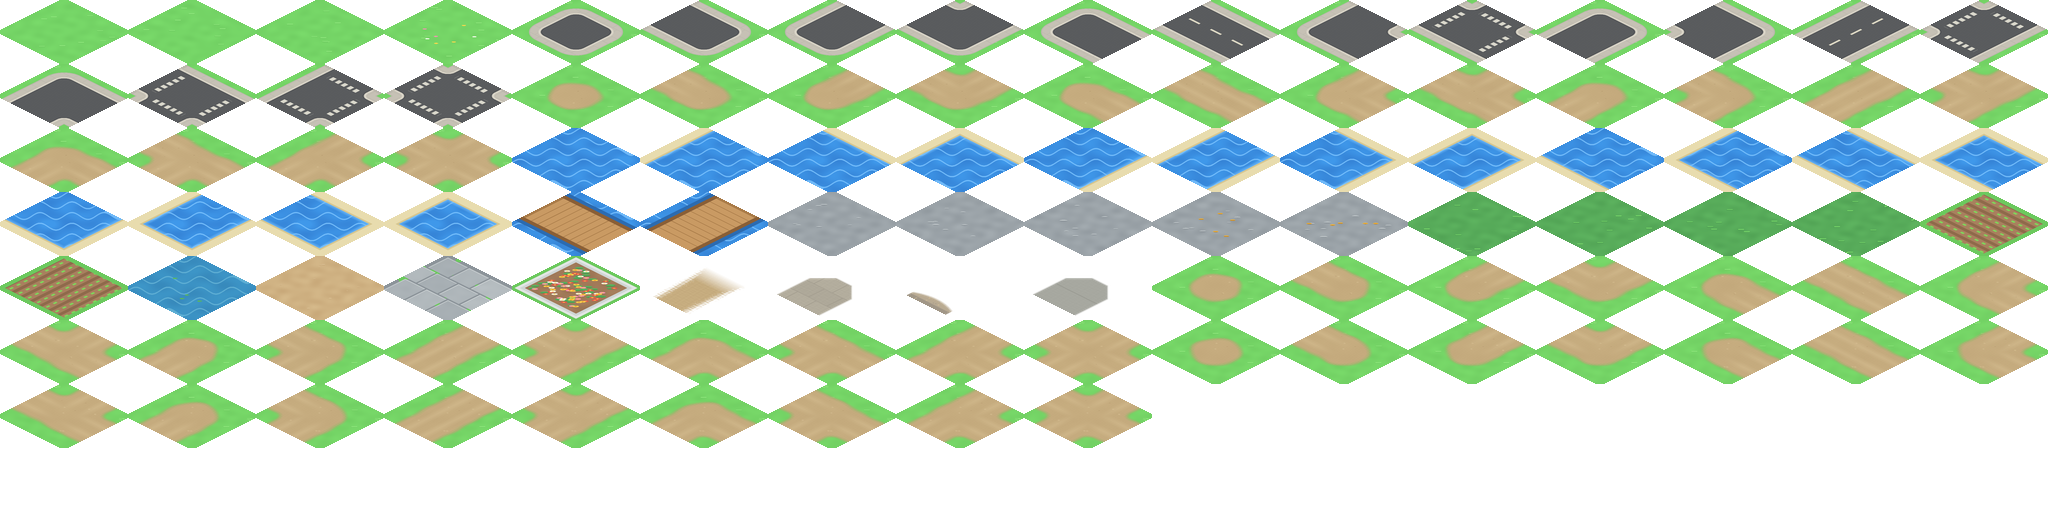
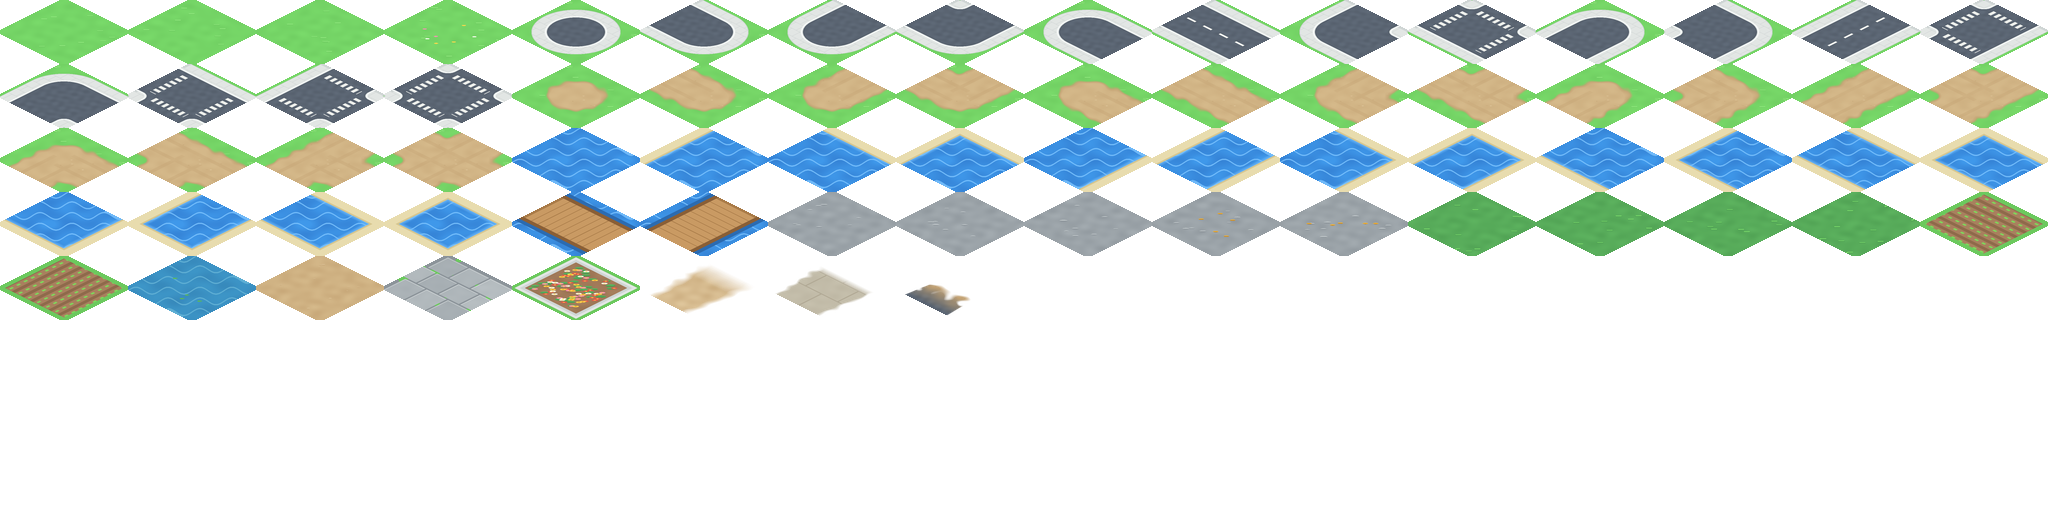
恢复初版道路与门前铺面外观

diff --git a/county-tycoon/assets/scripts/world/GridMap.ts b/county-tycoon/assets/scripts/world/GridMap.ts
@@ -1,6 +1,6 @@
 import { _decorator, Component, Layers, Node, UITransform, SpriteFrame } from 'cc';
 import { ArtLibrary, GROUND_GRASS_FRAMES, GROUND_ROAD_BASE } from '../core/ArtLibrary';
-import { bridgeName, grassName, neighborMask, RoadKind, roadName, terrainName, variantOf } from '../core/GroundFrames';
+import { bridgeName, grassName, neighborMask, RoadKind, roadName, terrainName } from '../core/GroundFrames';
 import { Facing, PlacedBuilding, TownModel } from '../core/TownModel';
 
 const { ccclass } = _decorator;
@@ -62,10 +62,9 @@ export class GridMap extends Component {
         const model = this._model;
         const art = this._art;
         if (!model || !art) return;
-        const apron = art.groundByName('gravel-apron');
+        const apron = art.groundByName('asphalt-apron');
         const earth = art.groundByName('entrance-earth');
         const paving = art.groundByName('entrance-paving');
-        const concrete = art.groundByName('entrance-concrete') ?? paving;
         for (const b of model.allBuildings()) {
             if (b.def.road === 'dirt' && apron) {
                 for (const { dc, dr, turn } of ROAD_EDGES) {
@@ -75,7 +74,7 @@ export class GridMap extends Component {
                 }
             }
             if (b.def.flat || b.def.id === 'tree' || b.def.id === 'farm' || b.def.terrain || !b.facing) continue;
-            const frame = b.def.id === 'hut' ? earth : b.def.category === '工业' ? concrete : paving;
+            const frame = b.def.id === 'hut' ? earth : paving;
             const entrance = frame && this.entranceOverlay(b, b.facing, frame);
             if (entrance) yield entrance;
         }
@@ -92,7 +91,7 @@ export class GridMap extends Component {
         const street = boundary - (dc + dr < 0 ? 1 : 0);
         const isDirt = (along: number) => (dc ? this.roadKind(street, along) : this.roadKind(along, street)) === 'dirt';
         const door = start + span / 2 + (DOOR_OFFSET[b.def.id] ?? 0) * (dr || -dc);
-        const width = span === 1 ? 0.40 : 0.66;
+        const width = span === 1 ? 0.43 : 0.72;
         let along = Infinity;
         for (let i = start; i < start + span; i++) {
             if (!isDirt(i)) continue;
@@ -119,10 +118,7 @@ export class GridMap extends Component {
         const kind = this.roadKind(col, row);
         if (kind) {
             const mask = neighborMask((c, r) => this.roadKind(c, r) !== null, col, row);
-            const name = roadName(kind, mask);
-            const variant = kind === 'dirt' ? variantOf(col, row, 3) : 0;
-            return (variant ? art.groundByName(`${name}-${variant}`) : null)
-                ?? art.groundByName(name) ?? art.ground(GROUND_ROAD_BASE[kind] + mask);
+            return art.groundByName(roadName(kind, mask)) ?? art.ground(GROUND_ROAD_BASE[kind] + mask);
         }
 
         // 装饰地块：flat 且有 decoFrame 名字（T218）

diff --git a/docs/art/3d/ground.py b/docs/art/3d/ground.py
@@ -7,8 +7,7 @@
   36~51  水 36+mask（mask = 四邻是陆地的位，有岸）              52 bridge-gx  53 bridge-gy
   54~56  mountain-0..2 石地   57~58 ore-0..1 矿点   59~62 forest-0..3 林地   63~64 farm-0..1   65 pond
   66 dirt-tile 泥土地   67 flagstone 石板路   68 flower-bed 花坛（T218，玩家可铺的装饰地块）
-  69 entrance-earth  70 entrance-paving  71 gravel-apron  72 entrance-concrete
-  73~104 土路的两套纹理变体，各 16 种接法
+  69 entrance-earth  70 entrance-paving  71 asphalt-apron（半透明贴地叠层，沿 +v 朝门面或柏油路）
 道路 mask 位：1 左上邻(col-1)  2 右上邻(row-1)  4 右下邻(col+1)  8 左下邻(row+1)
 
 画法：每个像素反算格内坐标 (u, v)（u 沿 gx 往右下、v 沿 gy 往左下，0..1），按 (u, v) 取色。
@@ -30,12 +29,9 @@ def hx(s):
 C = {k: hx(v) for k, v in {
     'grass': '#79da6a', 'grass_d': '#6cc95e', 'grass_l': '#8ee67c', 'flower_w': '#fdfdf2', 'flower_y': '#ffd84a',
     'flower_p': '#ff8fb8',
-    'pave': '#e2e6e4', 'pave_d': '#cfd5d4', 'curb': '#f4f7f6',
-    'walk': '#c9c4b7', 'walk_d': '#aba89e', 'road_curb': '#dfdacd', 'asphalt': '#5c5e60', 'asphalt_d': '#515356',
-    'line': '#ddd8c4', 'zebra': '#d9d7cb',
+    'pave': '#e2e6e4', 'pave_d': '#cfd5d4', 'curb': '#f4f7f6', 'asphalt': '#5f6a78', 'asphalt_d': '#56606d',
+    'line': '#fbfbf3', 'zebra': '#eef0ec',
     'dirt': '#d5b98a', 'dirt_d': '#c3a273', 'dirt_l': '#e2caa0',
-    'road_dirt': '#cbb284', 'road_dirt_d': '#b79b70', 'road_dirt_l': '#dac397',
-    'road_grass': '#82c663', 'gravel': '#b0a79a', 'gravel_d': '#8c8479',
     'water': '#3f98ea', 'water_d': '#3583d6', 'water_l': '#7cc4ff', 'sand': '#e8dcae', 'sand_d': '#d6c690',
     'deck': '#c99a63', 'deck_d': '#a97b48', 'rail': '#8a5f36', 'stone': '#a3abb0', 'stone_d': '#8c949a',
     'stone_l': '#bcc3c6', 'ore': '#f0b43a', 'ore_d': '#b77a22', 'forest': '#5db35f', 'forest_d': '#4c9c50',
@@ -118,11 +114,10 @@ def arms(mask):
     """mask → 四个方向是否连通：(-u, -v, +u, +v)"""
     return bool(mask & 1), bool(mask & 2), bool(mask & 4), bool(mask & 8)
 
-DIRT_HALF = 0.30
-CITY_HALF = 0.31
+ROAD_HALF = 0.32
 
-def road_depth(du, dv, exits, half, rounding, cap_corner=None):
-    """距车道边缘的有符号距离，路内为正；开放端延伸到格边。"""
+def road_depth(du, dv, exits, half, rounding):
+    """距车道边缘的有符号距离，路内为正。开放端延伸到格边，封闭端自然收圆。"""
     nu, nv, pu, pv = exits
     u, v = abs(du), abs(dv)
     along_u = pu if du > 0 else nu
@@ -133,134 +128,103 @@ def road_depth(du, dv, exits, half, rounding, cap_corner=None):
         return min(max(a, b), -rounding) + math.hypot(max(rounding + a, 0), max(rounding + b, 0))
     if along_u: return half - v
     if along_v: return half - u
-    if cap_corner is None:
-        return half - math.hypot(u, v)
-    # 城市端头保留笔直的一截路缘，两边接圆角。
-    a, b = u - half + cap_corner, v - half + cap_corner
-    return cap_corner - min(0.0, max(a, b)) - math.hypot(max(a, 0), max(b, 0))
+    return half - math.hypot(u, v)
 
 def asphalt(u, v):
-    grain = per_noise(u, v, 7, ((13, 19), (17, 11), (23, 13)))
-    return mix(C['asphalt_d'], C['asphalt'], 0.76 + 0.09 * grain)
+    t = per_noise(u, v, 7, ((5, 3), (3, 5), (7, 2))) * 0.5 + 0.5
+    return mix(C['asphalt_d'], C['asphalt'], t)
 
 def city_fn(mask):
     exits = arms(mask)
     nu, nv, pu, pv = exits
+    straight_u = mask == 5
+    straight_v = mask == 10
     junction = sum(exits) >= 3
     grass = grass_fn(31)
-    approaches = [(du, dv) for open_, du, dv in ((nu,-1,0), (nv,0,-1), (pu,1,0), (pv,0,1)) if open_]
     def f(u, v):
         du, dv = u - 0.5, v - 0.5
-        d = road_depth(du, dv, exits, CITY_HALF, 0.11, cap_corner=0.12)
-        if d < -0.131:
+        d = road_depth(du, dv, exits, ROAD_HALF, 0.115)
+        if d < -0.173:
             return grass(u, v)
         if d < -0.026:
-            # 暖灰砖铺面和一线贴地阴影。
-            row = int(v * 7)
-            seam = (u * 7 + 0.5 * (row % 2)) % 1 < 0.039 or (v * 7) % 1 < 0.042
-            return mix(C['walk'], C['walk_d'], 0.46 if seam or d < -0.119 else 0.09)
+            # 错缝方砖，靠草地留一线阴影。
+            row = int(v * 8)
+            seam = (u * 8 + 0.5 * (row % 2)) % 1 < 0.042 or (v * 8) % 1 < 0.042
+            return C['pave_d'] if seam or d < -0.164 else C['pave']
         if d < 0:
-            joint = (max(abs(du), abs(dv)) * 12) % 1 < 0.053
-            return mix(C['road_curb'], C['walk_d'], 0.48 if joint or d > -0.007 else 0.10)
+            return C['curb'] if d < -0.007 else C['pave_d']
         c = asphalt(u, v)
-        if d < 0.016:
-            return mix(c, C['asphalt_d'], 0.84)
-        if (mask == 5 and abs(dv) < 0.013 and 0.25 < (u * 3) % 1 < 0.74
-            or mask == 10 and abs(du) < 0.013 and 0.25 < (v * 3) % 1 < 0.74):
-            return C['line']
+        if d < 0.025:
+            c = mix(C['asphalt_d'], c, d / 0.025)
+        if straight_u and abs(dv) < 0.014 and 0.22 < (u * 4) % 1 < 0.73:
+            c = C['line']
+        if straight_v and abs(du) < 0.014 and 0.22 < (v * 4) % 1 < 0.73:
+            c = C['line']
         if junction:
-            for dc, dr in approaches:
-                outward, across = du * dc + dv * dr, du * dr - dv * dc
-                if 0.328 < outward < 0.398 and abs(across) < 0.228 and (across * 11 + 0.5) % 1 < 0.60:
-                    return C['zebra']
+            for open_, outward, across in ((nu, -du, dv), (pu, du, dv), (nv, -dv, du), (pv, dv, du)):
+                if open_ and 0.31 < outward < 0.40 and abs(across) < 0.26 and (across * 12) % 1 < 0.54:
+                    c = C['zebra']
         return c
     return f
 
-def dirt_fn(mask, variant=0):
+def dirt_fn(mask):
     exits = arms(mask)
     nu, nv, pu, pv = exits
     grass = grass_fn(31)
-    pebbles = scatter(113 + variant * 17, 10, 0.07, 0.93)
-    bend = mask not in (5, 10)
+    pebbles = scatter(77, 10, 0.02, 0.98)
     def f(u, v):
         du, dv = u - 0.5, v - 0.5
-        d = road_depth(du, dv, exits, DIRT_HALF, 0.10)
-        # 每套土路用不同的起伏；近格边回到同一个轮廓和底色。
-        seam = min(1.0, min(u, v, 1 - u, 1 - v) * 5)
-        low = per_noise(u, v, 37 + variant * 11, ((1, 0), (0, 1), (2, 1)))
-        grain = per_noise(u, v, 13, ((17, 11), (23, 17), (13, 19)))
-        d += seam * (0.018 * low + 0.006 * grain)
-        if d < -0.021:
+        d = road_depth(du, dv, exits, ROAD_HALF, 0.10)
+        # 自然起伏在格边淡出，两格能对上；草肩比路面更暗。
+        edge_fade = min(1.0, min(u, v, 1 - u, 1 - v) * 9)
+        noise = per_noise(u, v, 13)
+        d += edge_fade * (0.022 * noise + 0.017 * math.sin(6.283 * (3 * u - 4 * v)))
+        if d <= -0.027:
             return grass(u, v)
-
-        road = mix(C['road_dirt_d'], C['road_dirt'], 0.70 + seam * low * 0.10 + grain * 0.05)
-        # 车轮压实两道土，车辙接近路口时淡出。
-        u_open = pu if du >= 0 else nu
-        v_open = pv if dv >= 0 else nv
-        track_u = (1 - abs(abs(dv) - 0.118) / 0.074) * min(1.0, abs(du) * 2.8 if bend else 1.0) if u_open else 0.0
-        track_v = (1 - abs(abs(du) - 0.118) / 0.074) * min(1.0, abs(dv) * 2.8 if bend else 1.0) if v_open else 0.0
-        c = mix(road, C['road_dirt_l'], max(track_u, track_v) * 0.38)
+        c = mix(C['dirt_d'], C['dirt'], 0.82 + 0.24 * noise)
+        track_u = (pu if du >= 0 else nu) and abs(abs(dv) - 0.135) < 0.027
+        track_v = (pv if dv >= 0 else nv) and abs(abs(du) - 0.135) < 0.027
+        if track_u or track_v:
+            middle = min(1.0, max(abs(du), abs(dv)) * 5)
+            c = mix(c, C['dirt_d'], 0.36 * middle)
         for cu, cv, k in pebbles:
-            a, b = u - cu, v - cv
-            radius = 0.007 + 0.007 * k
-            if d > 0.035 and a * a + b * b < radius * radius:
-                c = mix(c, C['road_dirt_l'] if k > 0.55 else C['road_dirt_d'], 0.48)
-        if d < 0.055:
-            shoulder = mix(C['road_grass'], C['road_dirt_d'], 0.38 + 0.25 * low * seam)
-            c = mix(shoulder, c, (d + 0.015) / 0.070)
-            c = mix(grass(u, v), c, (d + 0.021) / 0.043)
+            a, b = pdist(u, v, cu, cv)
+            if (a - b) ** 2 + ((a + b) * 2) ** 2 < 0.00016 + 0.00022 * k:
+                c = mix(c, C['dirt_l'] if k > 0.42 else C['dirt_d'], 0.8)
+        if d < 0.045:
+            c = mix(C['dirt_d'], c, (d + 0.006) / 0.05)
+        if d < 0.008:
+            c = mix(grass(u, v), c, (d + 0.027) / 0.035)
         return c
     return f
 
-def entrance_fn(surface):
-    """+v 端抵住门前地块，-v 端接到土路路肩。"""
-    slab_base, slab_joint = hx('#b5af9f'), hx('#928d81')
-    concrete_base, concrete_joint = hx('#a9aaa2'), hx('#93958d')
+def entrance_fn(paved):
+    """+v 端抵住门前地块，-v 端和土路的车辙相融。"""
+    paving_dark, paving_light = hx('#a69d89'), hx('#c6c0ad')
     def f(u, v):
+        noise = per_noise(u, v, 43)
         across = abs(u - 0.5)
-        fine = per_noise(u, v, 43, ((9, 7), (13, 11), (11, 17)))
-        if surface == 'earth':
-            half = 0.27 + 0.045 * (1 - v)
-            d = half - across + 0.03 * fine
-            opacity = max(0.0, min(1.0, d / 0.10, (v - 0.15) / 0.30))
-            color = mix(C['road_dirt_d'], C['road_dirt'], 0.67 + 0.15 * fine + 0.12 * v)
+        half = (0.35 if paved else 0.30) + 0.09 * (1 - v) + 0.045 * noise
+        opacity = min(1.0, max(0.0, (half - across) * (19 if paved else 10)))
+        opacity *= min(1.0, max(0.0, (v - (0.24 if paved else 0.07)) * (9 if paved else 3)))
+        if paved:
+            seam = (v * 3.0) % 1 < 0.045 or (u * 2 + (0.5 if int(v * 3) % 2 else 0)) % 1 < 0.036
+            color = mix(paving_dark, paving_light, 0.33 if seam else 0.88 + 0.12 * noise)
         else:
-            # 铺面门口略宽，临路一端收成斜角；石板和水泥用不同的分缝。
-            d = min(0.34 - across, 0.39 - across - max(0.0, 0.57 - v), v - 0.3)
-            opacity = max(0.0, min(1.0, d * 34))
-            if surface == 'concrete':
-                seam = abs(v - 0.68) < 0.008
-                color = mix(concrete_base, concrete_joint, 0.65 if seam else 0.11 + 0.07 * fine)
-            else:
-                row = int((v - 0.32) * 4)
-                joint = ((u + row % 2 * 0.12) * 3.5) % 1 < 0.035 or ((v - 0.32) * 4) % 1 < 0.035
-                shade = 0.20 if row % 2 else 0.06
-                color = mix(slab_base, slab_joint, 0.55 if joint else shade + 0.07 * fine)
+            color = mix(C['dirt_d'], C['dirt_l'], 0.49 + 0.25 * noise + 0.16 * v)
         return (*color, 255 * opacity)
     return f
 
-def gravel_apron_fn():
-    """靠柏油路的短碎石带。格边就是柏油的直线接缝。"""
-    stones = scatter(127, 38, 0.0, 1.0)
-    # 按横向分桶，每个像素只检查自己附近的石粒。
-    bands = [[(x, 0.83 + y * 0.17, k) for x, y, k in stones if abs((i + 0.5) / 12 - x) < 0.065]
-             for i in range(12)]
-    def f(u, v):
-        if v < 0.8:
-            return (*C['gravel'], 0)
-        across = abs(u - 0.5)
-        edge = 0.84 + 0.075 * (across / CITY_HALF) ** 2
-        depth = min(1.0, max(0.0, (v - edge) * 24))
-        opacity = depth * min(1.0, max(0.0, (CITY_HALF - across) * 95))
-        color = mix(C['gravel'], C['road_dirt'], 0.24 + (1 - v) * 1.5)
-        if v > 0.966:
-            color = mix(C['gravel_d'], color, 0.50)
-        for cu, cv, k in bands[min(11, int(u * 12))]:
-            radius = 0.004 + 0.007 * k
-            if (u - cu) ** 2 + (v - cv) ** 2 < radius * radius:
-                color = mix(color, C['gravel_d'] if k < 0.57 else C['road_dirt_l'], 0.60)
-        return (*color, 255 * opacity)
-    return f
+def asphalt_apron(u, v):
+    """柏油贴着混铺的格边，一小段碎石肩过渡到土路。"""
+    into_dirt = 1 - v
+    noise = per_noise(u, v, 29)
+    shoulder = ROAD_HALF - abs(u - 0.5)
+    fade = into_dirt * (0.82 + 0.16 * noise)
+    opacity = min(1.0, max(0.0, (0.31 + 0.19 * noise - fade - max(0.0, -shoulder) * 1.8) * 10))
+    opacity *= min(1.0, max(0.0, (shoulder + 0.01 - 0.12 * fade) * 75))
+    color = mix(asphalt(u, v), C['dirt_d'], fade * 3.2)
+    return (*color, 255 * opacity)
 
 # ---------------------------------------------------------------- 水
 def water_base(u, v, seed=3):
@@ -443,14 +407,10 @@ for i in range(4): add(f'forest-{i}', forest_fn(400 + i))
 for i in range(2): add(f'farm-{i}', farm_fn(i))
 add('pond', pond_fn())
 add('dirt-tile', dirt_tile_fn()); add('flagstone', flagstone_fn()); add('flower-bed', flower_bed_fn())
-add('entrance-earth', entrance_fn('earth'), translucent=True)
-add('entrance-paving', entrance_fn('paving'), translucent=True)
-add('gravel-apron', gravel_apron_fn(), translucent=True)
-add('entrance-concrete', entrance_fn('concrete'), translucent=True)
-for variant in (1, 2):
-    for mask in range(16):
-        add(f'dirt-{mask}-{variant}', dirt_fn(mask, variant))
-assert len(frames) == 105, len(frames)
+add('entrance-earth', entrance_fn(False), translucent=True)
+add('entrance-paving', entrance_fn(True), translucent=True)
+add('asphalt-apron', asphalt_apron, translucent=True)
+assert len(frames) == 72, len(frames)
 
 COLS = 16                       # 每行 16 帧 → 图集宽 2048（手机 GPU 纹理上限常见 4096）
 rows = (len(frames) + COLS - 1) // COLS

diff --git a/docs/DEVLOG.md b/docs/DEVLOG.md
@@ -526,3 +526,5 @@
 - 重画土路和城市道路的 32 种接法。土路有三套草肩和车辙纹理，在格边对齐。城市道路用暖灰铺砖和较窄的路缘，尽头有平边和圆角。柏油接土路时保留清晰的收边，在土路一侧铺一窄段碎石。
 - 挨着土路的门面按实际朝向接夯土、石板或水泥铺面。地面和道路叠层复用动态网格，随建造、拆除和门面换向刷新。
 - 竖屏网页检查开局五个入口、混铺路口、拐角和尽头、拆路补路、换门面朝向，以及开启网格后的视角旋转。TypeScript 检查和 106 项模拟测试通过。道路美术待真机验证。
+
+- 用户对比后选回初版道路外观。恢复较亮的路缘、圆润的路头、起伏的草边、渐变接头和原门前铺面。动态网格继续复用。
